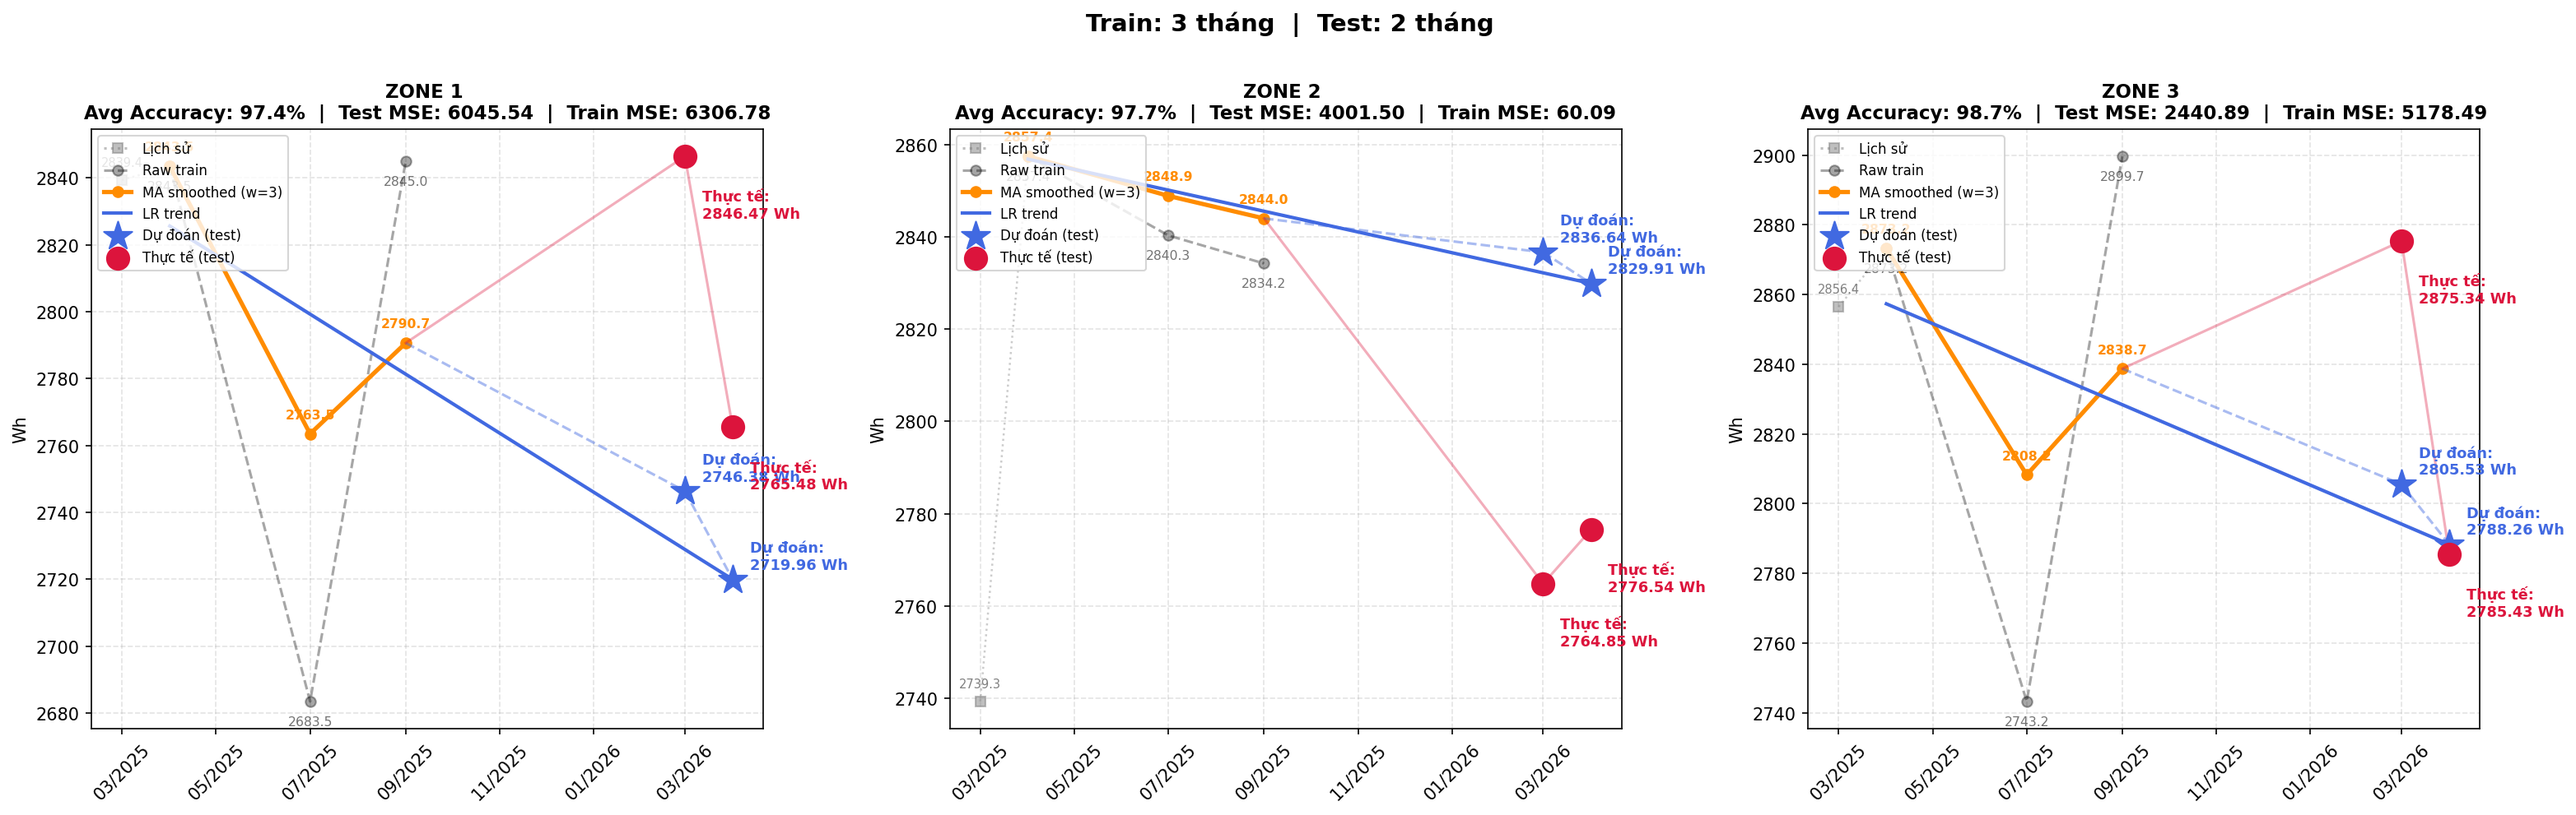
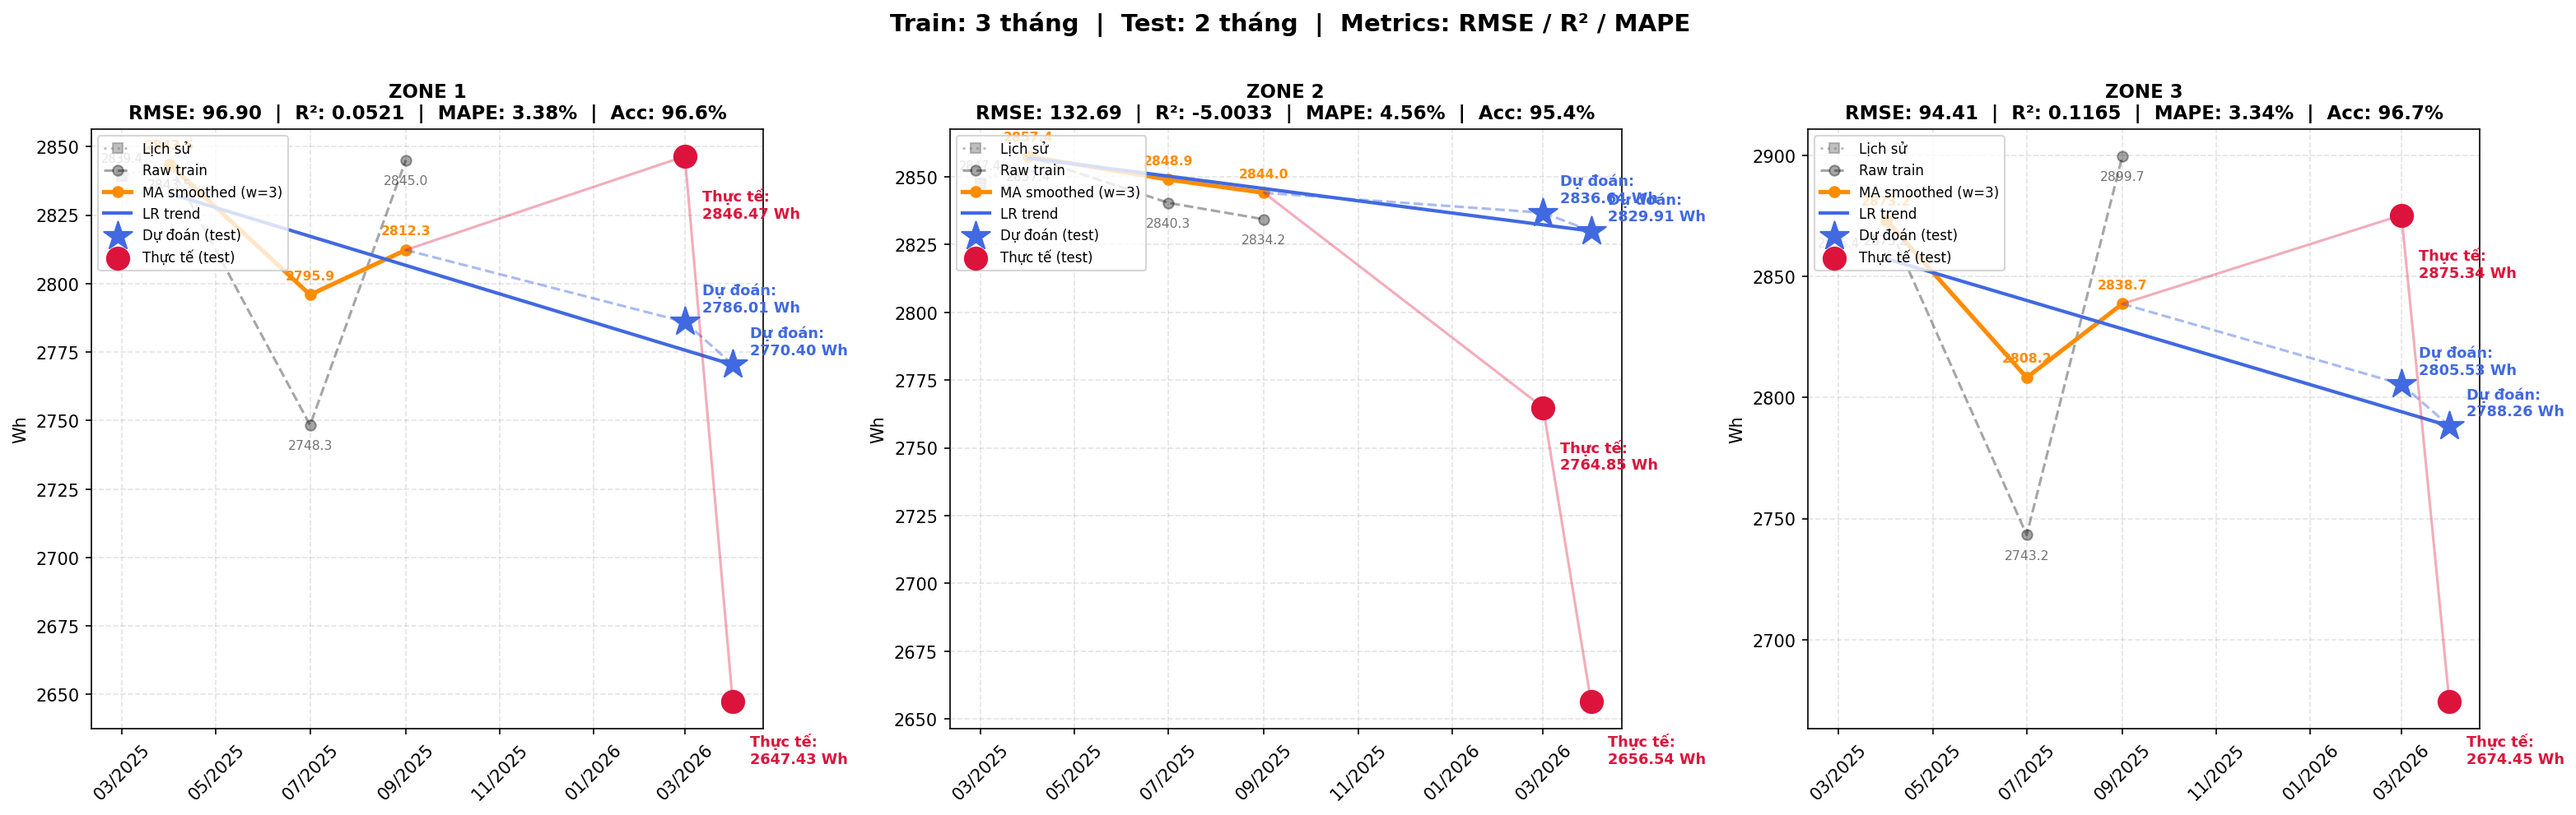
update: trainModel.py and energyMode.py

diff --git a/backend/service/energyService.js b/backend/service/energyService.js
@@ -149,6 +149,7 @@ async function predictEnergyForZone(zone_id) {
                     console.log("📦 Raw Python output:", output);
 
                     const res = JSON.parse(output.trim());
+                    console.log(res)
 
                     const predicted_wh = res.predicted_wh;
 

diff --git a/backend/ml/trainModel.py b/backend/ml/trainModel.py
@@ -6,35 +6,43 @@ import pandas as pd
 import matplotlib.pyplot as plt
 import matplotlib.dates as mdates
 from sklearn.linear_model import LinearRegression
-from sklearn.metrics import mean_squared_error
+from sklearn.metrics import mean_squared_error, r2_score
 
 warnings.filterwarnings("ignore")
 
-# ── Cấu hình đường dẫn ────────────────────────────────────────────────────────
-BASE_DIR    = os.path.dirname(os.path.abspath(__file__))     
-ML_DIR      = BASE_DIR                                            
+BASE_DIR    = os.path.dirname(os.path.abspath(__file__))
+ML_DIR      = BASE_DIR
 BACKEND_PUBLIC_DIR = os.path.abspath(
     os.path.join(BASE_DIR, "models")
 )
 
-OUTPUT_PKL  = os.path.join(BACKEND_PUBLIC_DIR, "trainmodel.pkl")   
-      
+OUTPUT_PKL  = os.path.join(BACKEND_PUBLIC_DIR, "trainmodel.pkl")
+
 FRONTEND_PUBLIC_DIR = os.path.abspath(
     os.path.join(BASE_DIR, "../../frontend/public")
 )
 
-OUTPUT_PNG = os.path.join(FRONTEND_PUBLIC_DIR, "energy_forecast.png") 
+OUTPUT_PNG = os.path.join(FRONTEND_PUBLIC_DIR, "energy_forecast.png")
 
 NEON_CONNECTION_STRING = (
     "postgresql://neondb_owner:npg_alivbegXt69m@ep-bitter-mode-a1h4kt9i-pooler"
     ".ap-southeast-1.aws.neon.tech/iot_db?sslmode=require&channel_binding=require"
 )
-N_TRAIN    = 3     
-N_TEST     = 2      
-MA_WINDOW  = 3     
+N_TRAIN    = 3
+N_TEST     = 2
+MA_WINDOW  = 3
 
 
-# Lấy dữ liệu từ database neon
+def mean_absolute_percentage_error(y_actual: np.ndarray, y_pred: np.ndarray) -> float:
+    """
+    MAPE = (1/n) * Σ |( Y_i - Ŷ_i ) / Y_i| * 100
+    Bỏ qua các điểm có y_actual = 0 để tránh chia-cho-0.
+    """
+    mask = y_actual != 0
+    if not mask.any():
+        return 0.0
+    return float(np.mean(np.abs((y_actual[mask] - y_pred[mask]) / y_actual[mask])) * 100)
+
 def fetch_from_neon() -> tuple[pd.DataFrame, pd.DataFrame]:
     import psycopg2
     from psycopg2.extras import RealDictCursor
@@ -84,7 +92,7 @@ def get_price(df_prices: pd.DataFrame, date: pd.Timestamp) -> float:
     return float(subset.sort_values("effective_date", ascending=False).iloc[0]["price_per_kwh"])
 
 
-# 2. TRAIN + TEST + VẼ CHO 1 ZONE
+# ── Train + Test + Vẽ cho 1 zone ─────────────────────────────────────────────
 def process_zone(ax, zone: str, zone_data: pd.DataFrame,
                  df_prices: pd.DataFrame) -> dict | None:
     zone_data = zone_data.sort_values("month").reset_index(drop=True)
@@ -95,7 +103,7 @@ def process_zone(ax, zone: str, zone_data: pd.DataFrame,
         ax.axis("off")
         return None
 
-    # Tách cửa sổ train / test ─────────────────────────────────────────
+    # Tách cửa sổ train / test
     recent = zone_data.tail(n_window).reset_index(drop=True)
     recent["time_index"] = np.arange(len(recent))
 
@@ -108,29 +116,39 @@ def process_zone(ax, zone: str, zone_data: pd.DataFrame,
     y_smoothed = pd.Series(y_raw).rolling(window=win, min_periods=1).mean().values
     train_df["smoothed_wh"] = y_smoothed
 
-    # Linear Regression
     X_train = train_df[["time_index"]]
     model   = LinearRegression().fit(X_train, y_smoothed)
 
-    # Dự đoán trên test set
     X_test   = test_df[["time_index"]]
     y_pred   = np.maximum(model.predict(X_test), 0)
     y_actual = test_df["total_wh"].values
     test_df  = test_df.copy()
     test_df["pred_wh"] = y_pred
 
-    # Metrics
-    train_mse = float(mean_squared_error(y_raw, model.predict(X_train)))
-    test_mse  = float(mean_squared_error(y_actual, y_pred))
-    acc_list  = [max(0.0, 100 - abs(a - p) / a * 100) if a else 0
-                 for a, p in zip(y_actual, y_pred)]
-    avg_acc   = float(np.mean(acc_list))
+    y_train_pred = model.predict(X_train)
+    rss_train = float(np.sum((y_smoothed - y_train_pred) ** 2))
 
-    # VẼ
+    rmse_test  = float(np.sqrt(mean_squared_error(y_actual, y_pred)))
+    rmse_train = float(np.sqrt(mean_squared_error(y_smoothed, y_train_pred)))
+
+    if len(y_actual) >= 2:
+        r2_test = float(r2_score(y_actual, y_pred))
+    else:
+        ss_res = float(np.sum((y_actual - y_pred) ** 2))
+        ss_tot = float(np.sum((y_actual - np.mean(y_actual)) ** 2))
+        r2_test = 1 - ss_res / ss_tot if ss_tot != 0 else 0.0
+
+    r2_train = float(r2_score(y_smoothed, y_train_pred))
+
+    mape_test  = mean_absolute_percentage_error(y_actual, y_pred)
+    mape_train = mean_absolute_percentage_error(y_smoothed, y_train_pred)
+
+    avg_acc = max(0.0, 100 - mape_test)
+
+    # ── Vẽ biểu đồ ───────────────────────────────────────────────────────────
     last_train_month = train_df["month"].iloc[-1]
     last_smooth_wh   = float(train_df["smoothed_wh"].iloc[-1])
 
-    # Lịch sử ngoài cửa sổ (xám nhạt)
     history = zone_data[zone_data["month"] < train_df["month"].iloc[0]]
     if not history.empty:
         ax.plot(history["month"], history["total_wh"],
@@ -210,8 +228,8 @@ def process_zone(ax, zone: str, zone_data: pd.DataFrame,
         first_act  = False
 
     ax.set_title(
-        f"ZONE {zone} \n"
-        f"Avg Accuracy: {avg_acc:.1f}%  |  Test MSE: {test_mse:.2f}  |  Train MSE: {train_mse:.2f}",
+        f"ZONE {zone}\n"
+        f"RMSE: {rmse_test:.2f}  |  R²: {r2_test:.4f}  |  MAPE: {mape_test:.2f}%  |  Acc: {avg_acc:.1f}%",
         fontsize=11, fontweight="bold",
     )
     ax.set_ylabel("Wh", fontsize=10)
@@ -220,15 +238,20 @@ def process_zone(ax, zone: str, zone_data: pd.DataFrame,
     ax.grid(True, linestyle="--", alpha=0.35)
     ax.legend(fontsize=8, loc="upper left")
 
+    # ── In báo cáo console ────────────────────────────────────────────────────
     print(f"\n  ZONE {zone}")
     print(f"    Train months : {list(train_df['month'].dt.strftime('%m/%Y'))}")
     print(f"    Raw Wh       : {[round(v,2) for v in y_raw]}")
     print(f"    Smoothed Wh  : {[round(v,2) for v in y_smoothed]}")
+    print(f"    RSS (train)  : {rss_train:.4f}  ← OLS tối thiểu hóa giá trị này")
     for idx, row in enumerate(test_df.itertuples()):
         print(f"    [Test {idx+1}] {row.month.strftime('%m/%Y')}  "
-              f"Pred: {row.pred_wh:.4f} Wh  Actual: {row.total_wh:.4f} Wh  "
-              f"Acc: {acc_list[idx]:.2f}%")
-    print(f"    Avg Accuracy : {avg_acc:.2f}%  |  Test MSE: {test_mse:.4f}  |  Train MSE: {train_mse:.4f}")
+              f"Pred: {row.pred_wh:.4f} Wh  Actual: {row.total_wh:.4f} Wh")
+    print(f"    ── Metrics (test set) ──────────────────────────────────────────")
+    print(f"    RMSE  = √MSE         : {rmse_test:.4f}  (train: {rmse_train:.4f})")
+    print(f"    R²                   : {r2_test:.4f}  (train: {r2_train:.4f})  [1=hoàn hảo]")
+    print(f"    MAPE                 : {mape_test:.2f}%  (train: {mape_train:.2f}%)")
+    print(f"    Accuracy (100-MAPE)  : {avg_acc:.2f}%")
     print("    " + "-" * 74)
 
     return {
@@ -242,11 +265,16 @@ def process_zone(ax, zone: str, zone_data: pd.DataFrame,
         "y_smoothed":      y_smoothed.tolist(),
         "coef":            float(model.coef_[0]),
         "intercept":       float(model.intercept_),
-
         "last_time_index": int(recent["time_index"].iloc[-1]),
-        "train_mse":       train_mse,
-        "test_mse":        test_mse,
-        "avg_accuracy":    avg_acc,
+
+        "rss_train":       rss_train,    
+        "rmse_train":      rmse_train,   
+        "rmse_test":       rmse_test,   
+        "r2_train":        r2_train,     
+        "r2_test":         r2_test,      
+        "mape_train":      mape_train,   
+        "mape_test":       mape_test,    
+        "avg_accuracy":    avg_acc,      
     }
 
 
@@ -262,7 +290,6 @@ def main():
     zones = sorted(df_energy["zone_id"].unique())
     print(f"  Zones: {zones}")
 
-
     ncols = min(3, len(zones))
     nrows = (len(zones) + ncols - 1) // ncols
     fig, axes = plt.subplots(nrows, ncols,
@@ -270,7 +297,8 @@ def main():
                              squeeze=False)
 
     print("\n" + "=" * 80)
-    print("BÁO CÁO TRAIN + TEST  –  MA Smoothing + Linear Regression")
+    print("BÁO CÁO TRAIN + TEST  –  MA Smoothing + Linear Regression (OLS)")
+    print("Metrics: RSS (OLS) | RMSE | R² | MAPE")
     print("=" * 80)
 
     all_models: dict[str, dict] = {}
@@ -289,7 +317,8 @@ def main():
         axes[row_j][col_j].set_visible(False)
 
     fig.suptitle(
-        f"Train: {N_TRAIN} tháng  |  Test: {N_TEST} tháng",
+        f"Train: {N_TRAIN} tháng  |  Test: {N_TEST} tháng  "
+        f"|  Metrics: RMSE / R² / MAPE",
         fontsize=14, fontweight="bold", y=1.01,
     )
     plt.tight_layout()

diff --git a/backend/ml/energyModel.py b/backend/ml/energyModel.py
@@ -88,8 +88,8 @@ print(json.dumps({
     "zone_used": str(zone_id),
 
     "evaluation": {
-        "mse": round(float(mse), 2),
-        "test_accuracy": round(float(avg_accuracy), 2),
+        "mse": float(mse),
+        "avg_accuracy": float(avg_accuracy),
         "train_accuracy_from_pkl": round(float(saved_train_accuracy), 2),
         "status": threshold_status
     },
